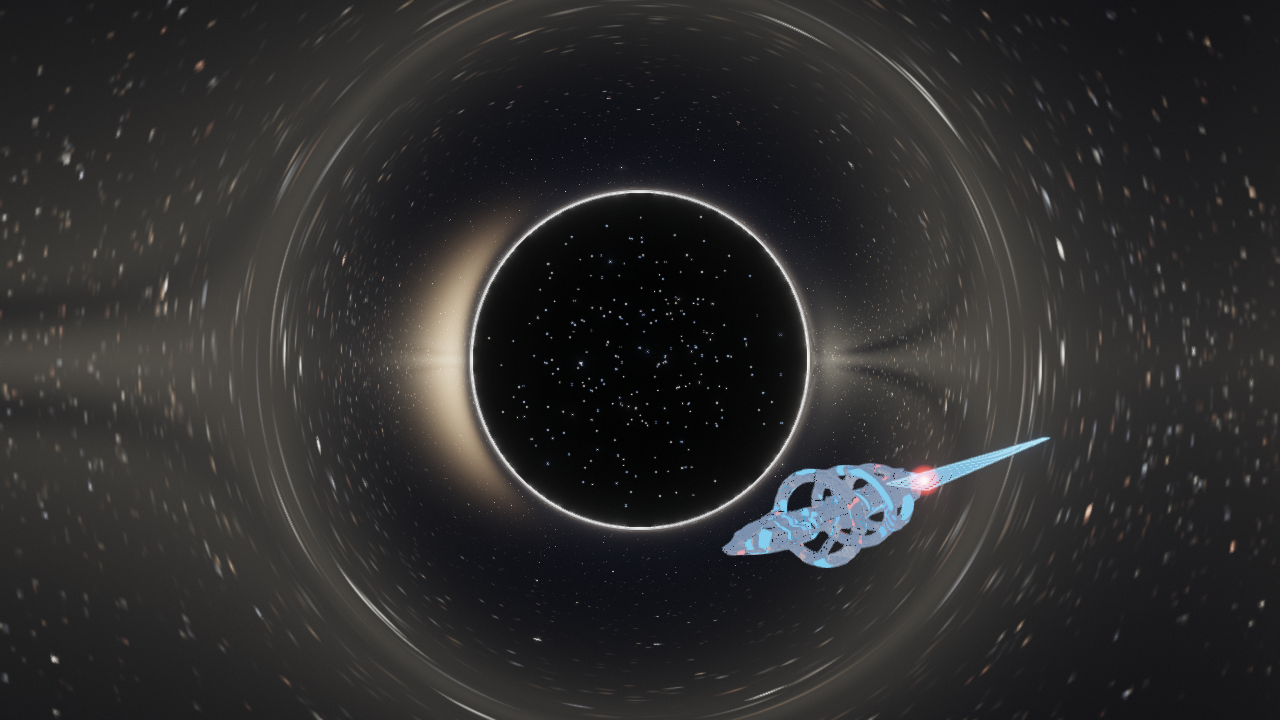
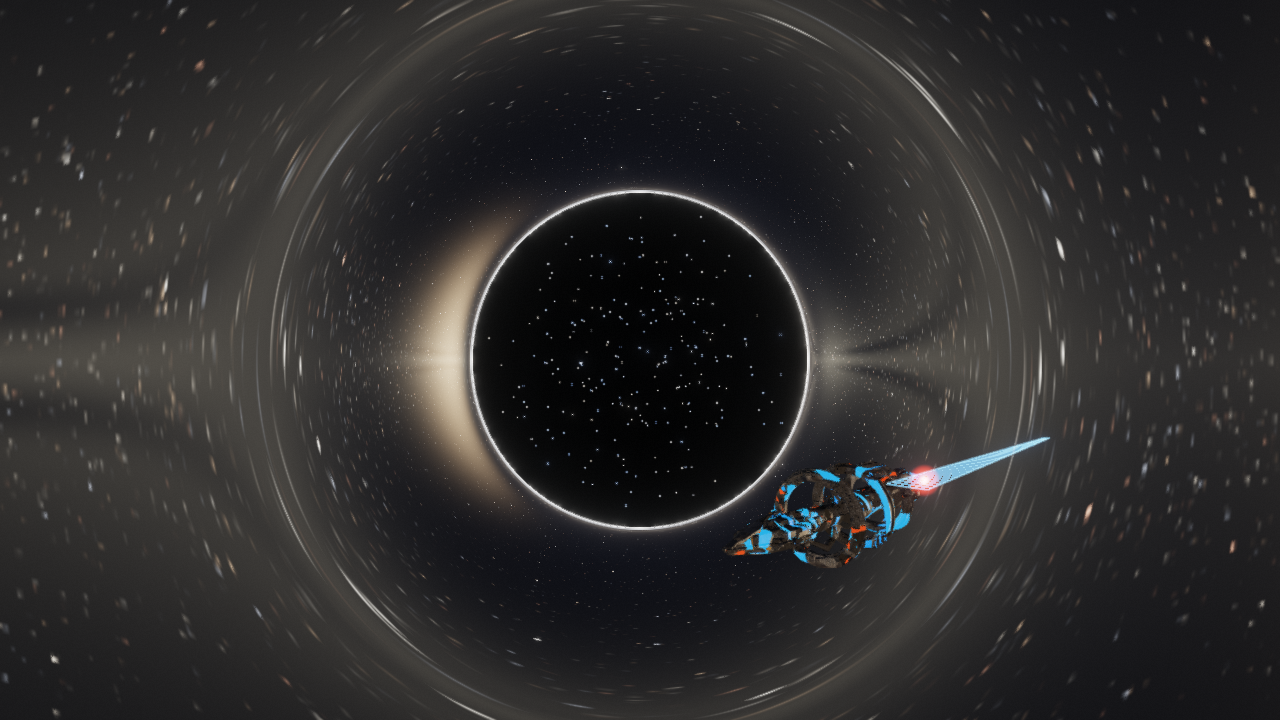
feat(ship): ring-spin vertex shader for Model rings, geometry-based rim, exporter tweaks

Changed region(s): [[0.5625, 0.6417, 0.7188, 0.7944]]

diff --git a/src/SceneManager.cpp b/src/SceneManager.cpp
@@ -1799,6 +1799,15 @@ void SceneManager::render(const Camera& camera, int fbWidth, int fbHeight, float
           s_shipShader->setUniform1f("u_ReflK", m_settings.shipReflections ? 1.0f : 0.0f);
           glActiveTexture(GL_TEXTURE0);
           m_skyboxLocal->bind(0);
+          // Фаза спина интегрируется раз за кадр: кольца процедурного
+          // корпуса и кольца OBJ-модели (u_RingSpin) делят одну фазу.
+          static float s_spinVar = 0.0f;
+          static float s_spinPrev = time;
+          const float dtS = time - s_spinPrev;
+          s_spinPrev = time;
+          if (dtS > 0.0f && dtS < 0.5f)
+            s_spinVar += (2.6f * thrW + 8.0f * warpVis) * dtS;
+          const float spinPhase = 0.55f * time + s_spinVar;
           bool meshDrawn = false;
           if (style == 3) {
             // Model hull (агент M): меш из res/models/warp_ship.obj рядом с
@@ -1818,6 +1827,10 @@ void SceneManager::render(const Camera& camera, int fbWidth, int fbHeight, float
               s_shipShader->setUniformMat4f("u_Model", shipHullModel);
               s_shipShader->setUniform3f("u_InvScale", 1.0f, 1.0f, 1.0f);
               s_shipShader->setUniform1i("u_FlatNormal", 0);
+              // Кручение колец Model-корабля (окраска едет с ободом —
+              // скин сэмплится в некрутёной позиции). Окна читаются и
+              // в простое: база 0.55*time + переменная фаза.
+              s_shipShader->setUniform1f("u_RingSpin", spinPhase);
               s_shipShader->setUniform1i("u_SkinOn", 0);
               // Окраску несёт livery-альбедо (запечён в экспортёре), поэтому
               // множитель нейтральный; метал/шершавость — фолбэки, когда карт нет.
@@ -1854,6 +1867,8 @@ void SceneManager::render(const Camera& camera, int fbWidth, int fbHeight, float
           // Процедурные части: плоский u_BaseColor, текстуры выключены
           // (у них нет атрибута UV — location 2 не включён).
           s_shipShader->setUniform1i("u_TexOn", 0);
+          // Процедурным частям спин OBJ не нужен: кольца крутятся на CPU.
+          s_shipShader->setUniform1f("u_RingSpin", 0.0f);
           s_shipShader->setUniform1i("u_EmissiveOn", 0);  // не утекать из Model-пути
           // Сэмплеры карт всё равно обязаны смотреть в СВОИ юниты: если два
           // сэмплера разного типа делят юнит 0 (кубмап скайбокса), драйвер
@@ -1888,14 +1903,6 @@ void SceneManager::render(const Camera& camera, int fbWidth, int fbHeight, float
             glBindTexture(GL_TEXTURE_2D, s_skinRough);
             glActiveTexture(GL_TEXTURE0);
           }
-          // Фаза спина интегрируется раз за кадр (раньше сидела внутри
-          // ring-ветки): кольца и их бегущие огни делят одну фазу.
-          static float s_spinVar = 0.0f;
-          static float s_spinPrev = time;
-          const float dtS = time - s_spinPrev;
-          s_spinPrev = time;
-          if (dtS > 0.0f && dtS < 0.5f)
-            s_spinVar += (2.6f * thrW + 8.0f * warpVis) * dtS;
           int ringIdx = 0;
           for (const ShipPart& p : parts) {
             glm::mat4 model = shipHullModel *
@@ -1921,12 +1928,17 @@ void SceneManager::render(const Camera& camera, int fbWidth, int fbHeight, float
               const glm::mat4 ringCenter = model;
               for (int m = 0; m < 3; ++m) {
                 const float a = ang + static_cast<float>(m) * 2.0944f;
+                // Плоскость кольца после rotX(90°) — локальные XY: маркер
+                // катится по ободу вокруг продольной оси. Масштаб обязателен:
+                // единичная сфера иначе перекрывает весь корабль.
                 glm::mat4 dotM = ringCenter *
                     glm::translate(glm::mat4(1.0f),
-                                   glm::vec3(0.37f * std::cos(a), 0.0f,
-                                             0.37f * std::sin(a)));
+                                   glm::vec3(0.37f * std::cos(a),
+                                             0.37f * std::sin(a), 0.0f)) *
+                    glm::scale(glm::mat4(1.0f),
+                               glm::vec3(0.018f, 0.018f, 0.018f));
                 s_shipShader->setUniformMat4f("u_Model", dotM);
-                s_shipShader->setUniform3f("u_InvScale", 5.0f, 5.0f, 5.0f);
+                s_shipShader->setUniform3f("u_InvScale", 1.0f, 1.0f, 1.0f);
                 s_shipShader->setUniform1f("u_FlatNormal", 0.0f);
                 s_shipShader->setUniform3f("u_BaseColor", 0.85f, 0.90f, 1.0f);
                 s_shipShader->setUniform1f("u_Metal", 0.0f);
@@ -1939,7 +1951,7 @@ void SceneManager::render(const Camera& camera, int fbWidth, int fbHeight, float
                 s_shipSphere.draw();
               }
               ++ringIdx;
-              continue;
+              // Далее общий хвост цикла: масштаб, юниформы и draw кольца.
             }
             model = model * glm::scale(glm::mat4(1.0f), p.scale);
             s_shipShader->setUniformMat4f("u_Model", model);

diff --git a/src/ObjModel.cpp b/src/ObjModel.cpp
@@ -393,9 +393,6 @@ bool ObjModel::loadTextures(const std::string& base) {
   unsigned int r = loadTextureFile(rough);
   unsigned int m = loadTextureFile(metal);
   unsigned int e = loadTextureFile(emissive);
-  std::printf("[ship] tex %s: albedo=%u normal=%u rough=%u metal=%u emis=%u\n",
-              base.c_str(), a, n, r, m, e);
-  std::fflush(stdout);
   if (a == 0) {
     // Без albedo набор бессмысленен: чистим частично загруженное.
     unsigned int extra[4] = {n, r, m, e};
